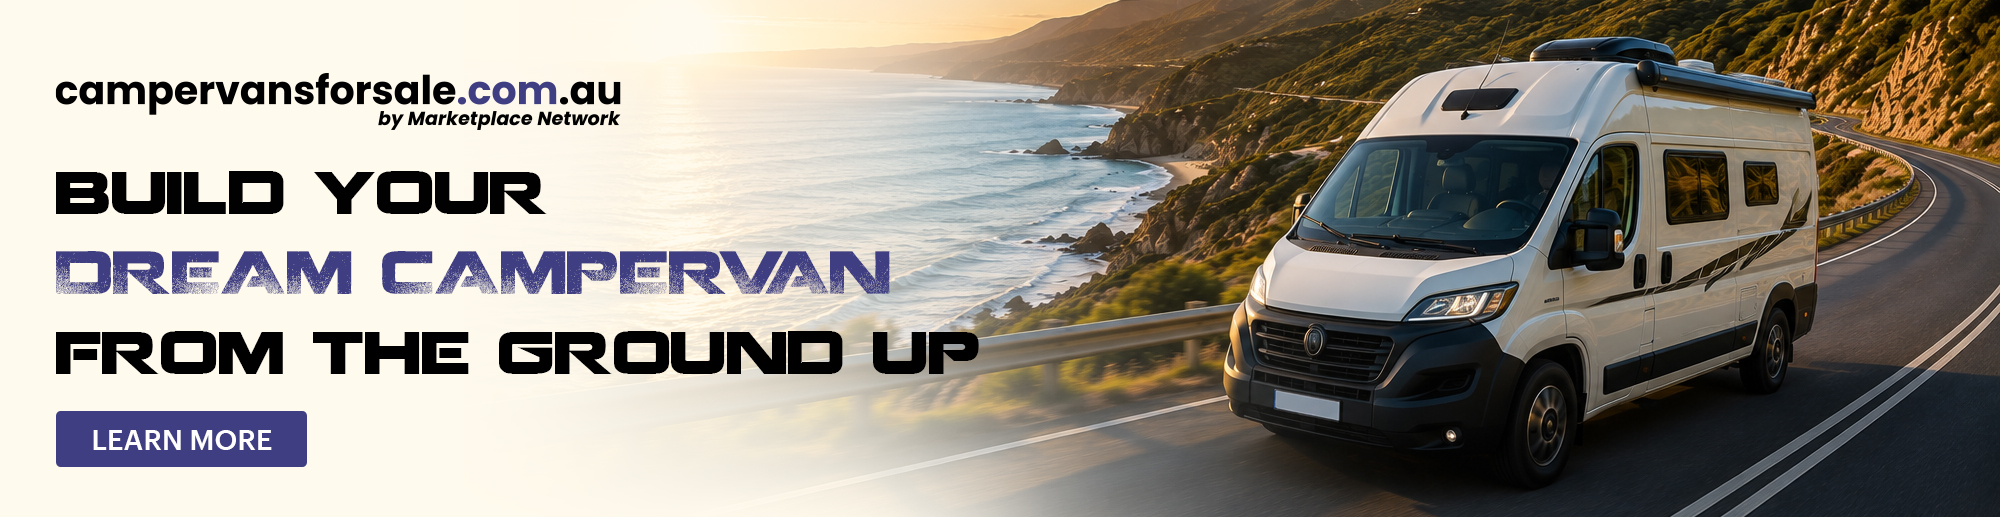
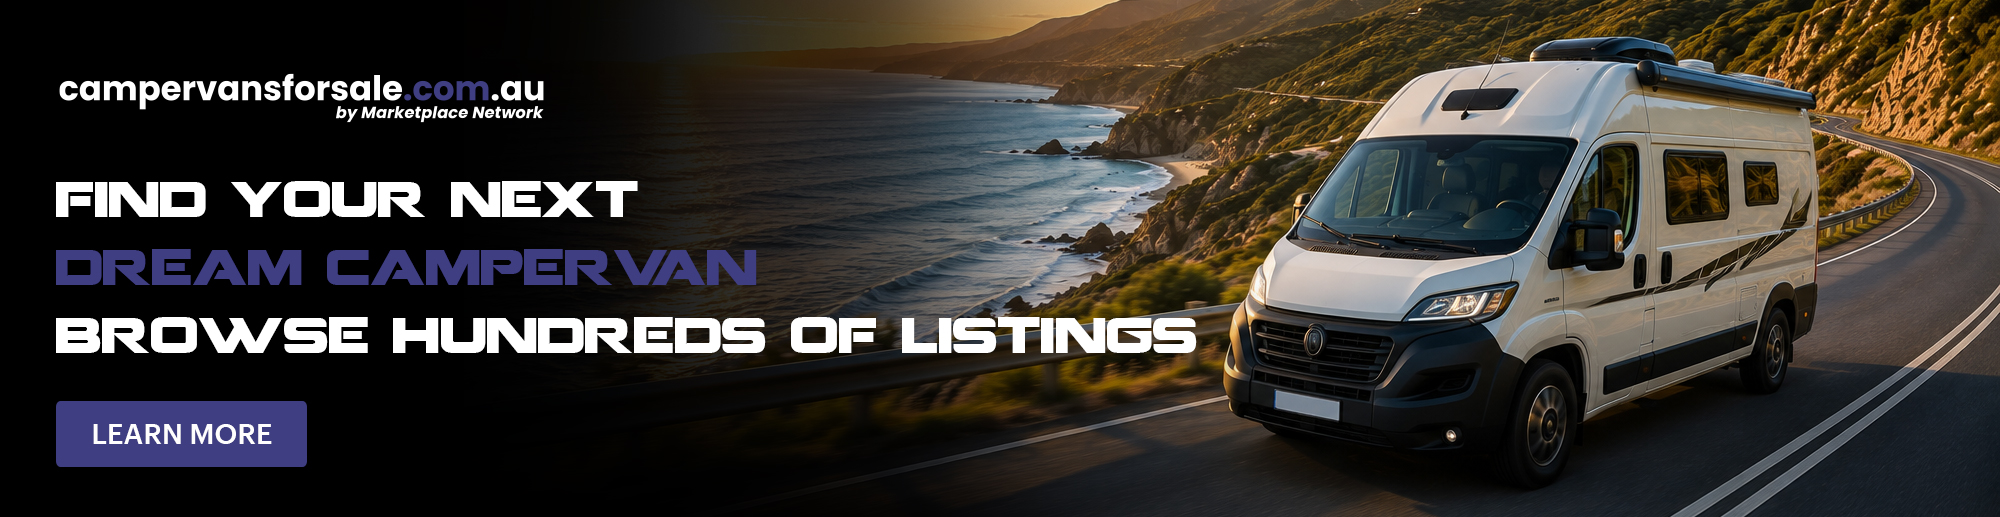
Complete suburb+radius search fix and off-road-campervans link updates
These changes were part of the previous commit but were dropped due to
a git add pathspec failure: radius_kms now included in the pool-listings
API call and slug URL, filter modal suburb UI matches the location modal,
remaining /off-road-caravans/ hrefs updated to /off-road-campervans/, and
refreshed banner ad images with cache-busting query params.

diff --git a/src/app/listings/StateFilterBar.tsx b/src/app/listings/StateFilterBar.tsx
@@ -581,6 +581,7 @@ export default function StateFilterBar({ currentFilters, onFilterChange, onClear
       setTempSuburbInput(""); setTempSuburbSuggestion(null);
     }
     setSuburbLocationSuggestions([]); setShowSuburbSuggestions(false);
+    setTempSuburbRadius(currentFilters.radius_kms ? Number(currentFilters.radius_kms) : RADIUS_OPTIONS[0]);
     const matchedState = states.find(s => s.name?.toLowerCase() === (currentFilters.state ?? "").toLowerCase() || s.value?.toLowerCase() === (currentFilters.state ?? "").toLowerCase());
     setTempState(matchedState?.name ?? currentFilters.state ?? null);
     const matchedRegion = matchedState?.regions?.find(r => r.name?.toLowerCase() === (currentFilters.region ?? "").toLowerCase() || r.value?.toLowerCase() === (currentFilters.region ?? "").toLowerCase());
@@ -592,13 +593,29 @@ export default function StateFilterBar({ currentFilters, onFilterChange, onClear
     let pincodeValue: string | undefined;
     let stateOverride: string | undefined;
     let regionOverride: string | undefined;
+    let radiusOverride: number | undefined;
     if (tempSuburbSuggestion) {
+      // Suburb + pincode are combined into one segment, e.g. "campbellfield-3061-suburb",
+      // not a separate 4-digit-only segment — must split on that pattern, same as the
+      // Location modal's search handler.
       const parts = tempSuburbSuggestion.uri.split("/").filter(Boolean);
-      const suburbPart = parts.find((p: string) => p.endsWith("-suburb"));
-      suburbName  = suburbPart?.replace(/-suburb$/, "").replace(/-/g, " ");
-      pincodeValue = parts.find((p: string) => /^\d{4}$/.test(p));
-      stateOverride  = parts[0]?.replace(/-state$/, "").replace(/-/g, " ");
-      regionOverride = parts[1]?.replace(/-region$/, "").replace(/-/g, " ");
+      const stateSlug  = parts[0] || "";
+      const regionSlug = parts[1] || "";
+      const suburbSlug = parts[2] || "";
+      let pincode = parts[3] || "";
+      const state  = stateSlug.replace(/-state$/, "").replace(/-/g, " ").trim();
+      const region = regionSlug.replace(/-region$/, "").replace(/-/g, " ").trim();
+      const spMatch = suburbSlug.match(/^([a-z0-9-]+)-(\d{4})-suburb$/i);
+      let suburb: string;
+      if (spMatch) { suburb = spMatch[1].replace(/-/g, " ").trim(); if (!pincode) pincode = spMatch[2]; }
+      else { suburb = suburbSlug.replace(/-suburb$/, "").replace(/-/g, " ").trim(); }
+      if (!/^\d{4}$/.test(pincode)) { const m = tempSuburbSuggestion.address.match(/\b\d{4}\b/); if (m) pincode = m[0]; }
+      suburbName    = suburb;
+      pincodeValue  = pincode || undefined;
+      stateOverride = state;
+      const validRegion = getValidRegionName(state, region, states);
+      regionOverride = validRegion || region;
+      radiusOverride = tempSuburbRadius;
     }
     const updates: Partial<FilterState> = {
       category:          tempCategory ?? undefined,
@@ -613,8 +630,9 @@ export default function StateFilterBar({ currentFilters, onFilterChange, onClear
       model:             tempModel ?? undefined,
       state:             (stateOverride ?? tempState)?.toLowerCase() ?? undefined,
       region:            (regionOverride ?? tempRegion)?.toLowerCase() ?? undefined,
-      suburb:            suburbName ?? undefined,
+      suburb:            suburbName?.toLowerCase() ?? undefined,
       pincode:           pincodeValue ?? undefined,
+      radius_kms:        radiusOverride ?? undefined,
       acustom_fromyears: tempYearFrom ?? undefined,
       acustom_toyears:   tempYearTo ?? undefined,
       from_length:       tempLengthFrom ?? undefined,
@@ -873,17 +891,17 @@ export default function StateFilterBar({ currentFilters, onFilterChange, onClear
                 </div>
               </div>
 
-              {/* Suburb / Postcode */}
+              {/* Suburb / Postcode — same design as the Location modal */}
               <div className="filter-item">
                 <h4>Suburb/Postcode</h4>
-                <div style={{ position:"relative" }}>
-                  <div className="loc-search-wrap">
+                <div className="loc-search-wrap">
+                  <div style={{ position:"relative" }}>
                     <i className="bi bi-search loc-search-icon" />
                     <input
-                      className="loc-search-input"
+                      type="text" className="loc-search-input" autoComplete="off"
                       placeholder="Search suburb, postcode, state, region"
-                      value={tempSuburbSuggestion && !tempSuburbInput ? tempSuburbSuggestion.short_address : formatted(tempSuburbInput)}
-                      onFocus={() => { if (!tempSuburbSuggestion) setShowSuburbSuggestions(true); }}
+                      value={formatted(tempSuburbInput)}
+                      onFocus={() => setShowSuburbSuggestions(true)}
                       onChange={e => {
                         setShowSuburbSuggestions(true);
                         setTempSuburbSuggestion(null);
@@ -909,11 +927,6 @@ export default function StateFilterBar({ currentFilters, onFilterChange, onClear
                       }}
                       onBlur={() => setTimeout(() => setShowSuburbSuggestions(false), 150)}
                     />
-                    {tempSuburbSuggestion && (
-                      <button type="button"
-                        style={{ position:"absolute", right:12, top:"50%", transform:"translateY(-50%)", background:"none", border:"none", cursor:"pointer", color:"#888", fontSize:20, lineHeight:1 }}
-                        onMouseDown={e => { e.preventDefault(); setTempSuburbSuggestion(null); setTempSuburbInput(""); }}>×</button>
-                    )}
                   </div>
                   {showSuburbSuggestions && suburbLocLoading && tempSuburbInput && (
                     <ul className="location-suggestions">
@@ -921,7 +934,7 @@ export default function StateFilterBar({ currentFilters, onFilterChange, onClear
                     </ul>
                   )}
                   {showSuburbSuggestions && !suburbLocLoading && tempSuburbInput && suburbLocationSuggestions.length === 0 && (
-                    <p style={{ fontSize:13, color:"#888", margin:0, paddingLeft:4 }}>No results found</p>
+                    <p className="suggestions-no-results" style={{ paddingLeft:12 }}>No results found</p>
                   )}
                   {showSuburbSuggestions && !suburbLocLoading && suburbLocationSuggestions.length > 0 && (
                     <ul className="location-suggestions">
@@ -940,6 +953,42 @@ export default function StateFilterBar({ currentFilters, onFilterChange, onClear
                     </ul>
                   )}
                 </div>
+
+                {/* Selected suburb chip + radius */}
+                {tempSuburbSuggestion && !tempSuburbInput && (
+                  <div style={{ marginTop:12 }}>
+                    <div className="filter-chip">
+                      <span>{tempSuburbSuggestion.address}</span>
+                      <button type="button" className="filter-chip-close" onMouseDown={e => { e.preventDefault(); setTempSuburbSuggestion(null); setTempSuburbInput(""); }} aria-label="Remove location">×</button>
+                    </div>
+                    {tempSuburbSuggestion.uri.split("/").filter(Boolean).length >= 3 && (
+                      <div style={{ marginTop:14 }}>
+                        <div className="cfs-radius-label">Search surrounding area</div>
+                        <div className="cfs-radius-wrap">
+                          {(() => {
+                            const idx = Math.max(0, RADIUS_OPTIONS.indexOf(tempSuburbRadius as (typeof RADIUS_OPTIONS)[number]));
+                            const pct = (idx / (RADIUS_OPTIONS.length - 1)) * 100;
+                            return (
+                              <>
+                                <div className="cfs-radius-tooltip" style={{ left:`calc(${pct}% + ${18 - 0.36*pct}px)` }}>{tempSuburbRadius}km</div>
+                                <div className="cfs-radius-track-wrap">
+                                  <input type="range" className="cfs-radius-slider" min={0} max={RADIUS_OPTIONS.length-1} step={1} value={idx}
+                                    style={{ background:`linear-gradient(to right,#3f3e82 0%,#3f3e82 ${pct}%,#ddd ${pct}%,#ddd 100%)` }}
+                                    onChange={e => setTempSuburbRadius(RADIUS_OPTIONS[parseInt(e.target.value,10)])} aria-label="Search radius" />
+                                  {RADIUS_OPTIONS.map((km,i) => {
+                                    const tp = (i/(RADIUS_OPTIONS.length-1))*100;
+                                    return <span key={i} className={`cfs-radius-tick${i<idx?" active":i===idx?" current":""}`} style={{ left:`calc(${tp}% + ${9-0.18*tp}px)` }} title={`${km}km`} />;
+                                  })}
+                                </div>
+                                <div className="cfs-radius-range"><span>{RADIUS_OPTIONS[0]}km</span><span>{RADIUS_OPTIONS[RADIUS_OPTIONS.length-1].toLocaleString()}km</span></div>
+                              </>
+                            );
+                          })()}
+                        </div>
+                      </div>
+                    )}
+                  </div>
+                )}
               </div>
 
               {/* Condition */}

diff --git a/src/app/listings/home.tsx b/src/app/listings/home.tsx
@@ -745,7 +745,7 @@ export default function StateHome({ initialFilters, browseData, initialPool, ini
           {filters.category === 'off-road' && (
             <section className="lsd-offroad-extra"><div className="container">
               <h2 className="lsd-offroad-extra__title">{seed % 2 === 0 ? "Find Your Ideal Off Road Campervan" : "Search and Compare Off Road Campervans"}</h2>
-              <p className="lsd-offroad-extra__body">Browse live campervan listings from across the country, then compare <a href="https://campervans.vercel.app/off-road-caravans/">off road campervans in Australia</a> using search filters by price, location, weight, length and sleeping capacity while exploring manufacturer and model reviews.</p>
+              <p className="lsd-offroad-extra__body">Browse live campervan listings from across the country, then compare <a href="https://campervans.vercel.app/off-road-campervans/">off road campervans in Australia</a> using search filters by price, location, weight, length and sleeping capacity while exploring manufacturer and model reviews.</p>
             </div></section>
           )}
           <div className="lsd-sell-cta">
@@ -890,7 +890,7 @@ export default function StateHome({ initialFilters, browseData, initialPool, ini
         {filters.category === 'off-road' && (
           <section className="lsd-offroad-extra"><div className="container">
             <h2 className="lsd-offroad-extra__title">{seed % 2 === 0 ? "Find Your Ideal Off Road Campervan" : "Search and Compare Off Road Campervans"}</h2>
-            <p className="lsd-offroad-extra__body">Browse live campervan listings from across the country, then compare <a href="https://campervans.vercel.app/off-road-caravans/">off road campervans in Australia</a> using search filters by price, location, weight, length and sleeping capacity while exploring manufacturer and model reviews.</p>
+            <p className="lsd-offroad-extra__body">Browse live campervan listings from across the country, then compare <a href="https://campervans.vercel.app/off-road-campervans/">off road campervans in Australia</a> using search filters by price, location, weight, length and sleeping capacity while exploring manufacturer and model reviews.</p>
           </div></section>
         )}
         <div className="lsd-sell-cta">
@@ -954,7 +954,7 @@ export default function StateHome({ initialFilters, browseData, initialPool, ini
       {filters.category === 'off-road' && (
         <section className="lsd-offroad-extra"><div className="container">
           <h2 className="lsd-offroad-extra__title">{seed % 2 === 0 ? "Find Your Ideal Off Road Campervan" : "Search and Compare Off Road Campervans"}</h2>
-          <p className="lsd-offroad-extra__body">Browse live campervan listings from across the country, then compare <a href="https://campervans.vercel.app/off-road-caravans/">off road campervans in Australia</a> using search filters by price, location, weight, length and sleeping capacity while exploring manufacturer and model reviews.</p>
+          <p className="lsd-offroad-extra__body">Browse live campervan listings from across the country, then compare <a href="https://campervans.vercel.app/off-road-campervans/">off road campervans in Australia</a> using search filters by price, location, weight, length and sleeping capacity while exploring manufacturer and model reviews.</p>
         </div></section>
       )}
       <div className="lsd-sell-cta">

diff --git a/src/app/components/slugBuilter.ts b/src/app/components/slugBuilter.ts
@@ -25,7 +25,7 @@ function modelSlug(model: string): string {
 }
 export function buildSlugFromFilters(f: Filters): string {
   const segments: string[] = [];
-  // const DEFAULT_RADIUS = 50;
+  const DEFAULT_RADIUS = 25; // matches RADIUS_OPTIONS[0] in StateFilterBar.tsx
   // 1) Make / Model
   if (f.make) segments.push(toSlug(f.make));
   if (f.model) segments.push(modelSlug(f.model));
@@ -122,10 +122,13 @@ if (fromYear !== undefined && toYear !== undefined) {
 }
   const query = new URLSearchParams();
 
-  // Add radius_kms to query only if it's number greater than default
-  // if (typeof f.radius_kms === "number" && f.radius_kms > DEFAULT_RADIUS) {
-  //   query.set("radius_kms", String(f.radius_kms));
-  // }
+  // Add radius_kms to query only if it's a number greater than the default —
+  // keeps default-radius suburb searches on a clean canonical URL while still
+  // making a widened radius shareable/persisted across reloads.
+  const radiusNum = asNum(f.radius_kms);
+  if (typeof radiusNum === "number" && radiusNum > DEFAULT_RADIUS) {
+    query.set("radius_kms", String(radiusNum));
+  }
   // 9) Search (APPEND at the end — never replace other segments)
   if (f.search) {
     // Normalize for SEO URL: spaces → hyphen, remove junk

diff --git a/src/app/navbar/Navbar.tsx b/src/app/navbar/Navbar.tsx
@@ -117,7 +117,7 @@ export default function Navbar() {
                   </button>
                   {exploreOpen && (
                     <div className="explore-dropdown">
-                      <a href="/off-road-caravans/" className="explore-item" onClick={() => setExploreOpen(false)}>
+                      <a href="/off-road-campervans/" className="explore-item" onClick={() => setExploreOpen(false)}>
                         Off Road Campervans
                       </a>
                     </div>
@@ -223,7 +223,7 @@ export default function Navbar() {
                     </button>
                     {mobileExploreOpen && (
                       <div className="sidenav-explore-sub">
-                        <a href="/off-road-caravans/" onClick={closeNav}>Off Road Campervans</a>
+                        <a href="/off-road-campervans/" onClick={closeNav}>Off Road Campervans</a>
                       </div>
                     )}
                   </li>

diff --git a/src/app/home-demo/home.tsx b/src/app/home-demo/home.tsx
@@ -265,8 +265,8 @@ const handleBannerClick = useCallback((e: React.MouseEvent<HTMLAnchorElement>) =
             <a href="/listings/" target="_blank" rel="noopener noreferrer" className="hd-banner-ad__inner">
               <span className="hd-banner-ad__label">Advertisement</span>
               <picture>
-                <source media="(max-width: 767px)" srcSet="/images/1157x598-cvs.jpg" />
-                <img src="/images/2000x517-cvs.jpg?=1" alt="Campervans for Sale Australia" className="hd-banner-ad__img" />
+                <source media="(max-width: 767px)" srcSet="/images/1157x598-cvs.jpg?=1" />
+                <img src="/images/2000x517-cvs.jpg?=2" alt="Campervans for Sale Australia" className="hd-banner-ad__img" />
               </picture>
             </a>
           )}

diff --git a/src/app/listings/urlUtils.ts b/src/app/listings/urlUtils.ts
@@ -18,6 +18,7 @@ export function buildApiUrl(base: string, filters: FilterState, seed: number, lo
   if (filters.region)             params.set("region",             filters.region);
   if (filters.suburb)             params.set("suburb",             filters.suburb);
   if (filters.pincode)            params.set("pincode",            filters.pincode);
+  if (filters.radius_kms)         params.set("radius_kms",         String(filters.radius_kms));
   if (filters.from_price)         params.set("from_price",         String(filters.from_price));
   if (filters.to_price)           params.set("to_price",           String(filters.to_price));
   if (filters.minKg)              params.set("from_atm",           String(filters.minKg));

diff --git a/src/app/product-detail-demo/ProductDetailDemo.tsx b/src/app/product-detail-demo/ProductDetailDemo.tsx
@@ -663,7 +663,7 @@ const priceUpperIdx = !isPOA ? PRICE_STEPS.findIndex(s => s >= displayPrice) : -
               </h2>
               <p className="lsd-offroad-extra__body">
                 Browse live campervan listings from across the country, then compare{" "}
-                <a href="https://campervans.vercel.app/off-road-caravans/">off road campervans in Australia</a>{" "}
+                <a href="https://campervans.vercel.app/off-road-campervans/">off road campervans in Australia</a>{" "}
                 using search filters by price, location, weight, length and sleeping capacity while exploring manufacturer and model reviews.
               </p>
             
